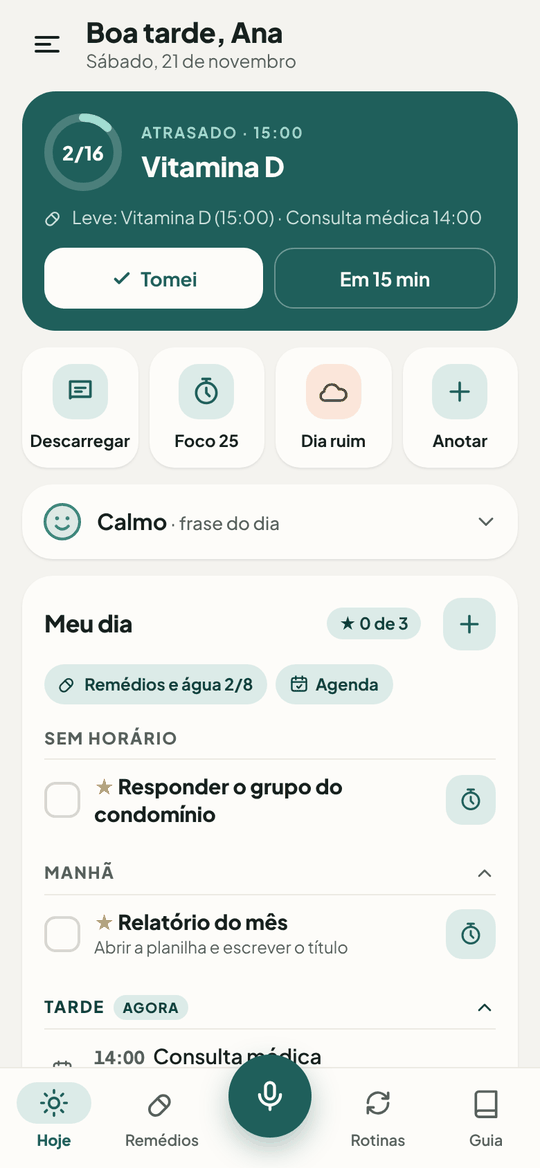
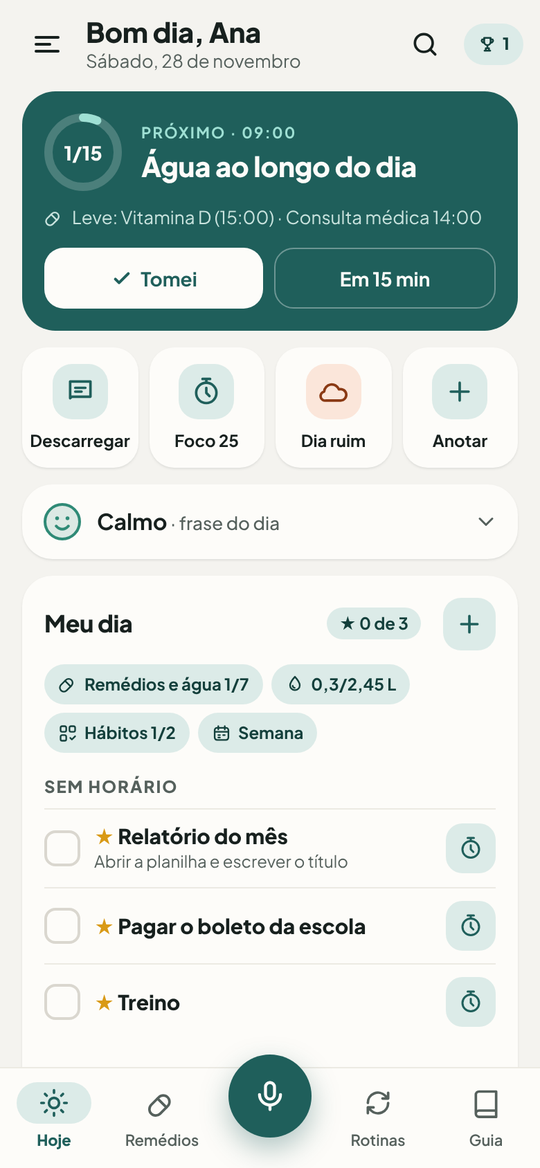
README: fotos novas (Hoje, semana) e telas de hábitos, água e volume de alarme
Claude-Session: https://claude.ai/code/session_01Rs3GPLpWNhTN5yiAapCfrm

diff --git a/README.md b/README.md
@@ -21,7 +21,7 @@ Sem conta e sem servidor: os dados ficam no celular, e o backup vai para o Googl
 
 <table>
   <tr>
-    <td align="center" width="33%"><img src="docs/telas/hoje.png" width="230" alt="Tela Hoje com o card Agora, ações rápidas, humor e o Meu dia por Manhã, Tarde e Noite"><br><sub><b>Hoje</b>: o dia num olhar</sub></td>
+    <td align="center" width="33%"><img src="docs/telas/hoje.png" width="230" alt="Tela Hoje com o card Agora, ações rápidas, humor e o Meu dia com os atalhos de remédios, água, hábitos e semana"><br><sub><b>Hoje</b>: o dia num olhar</sub></td>
     <td align="center" width="33%"><img src="docs/telas/captura.png" width="230" alt="Captura mágica lendo dentista sexta 15h no centro"><br><sub><b>Captura mágica</b>: escreve do seu jeito</sub></td>
     <td align="center" width="33%"><img src="docs/telas/matriz.png" width="230" alt="Matriz de prioridades com filtro por categoria"><br><sub><b>Prioridades</b>: matriz com categorias</sub></td>
   </tr>
@@ -31,7 +31,7 @@ Sem conta e sem servidor: os dados ficam no celular, e o backup vai para o Googl
     <td align="center"><img src="docs/telas/foco.png" width="230" alt="Bloco de foco escuro com timer de 25 minutos e o passo atual"><br><sub><b>Foco</b> de 25 min no passo atual</sub></td>
   </tr>
   <tr>
-    <td align="center"><img src="docs/telas/semana.png" width="230" alt="Resumo da semana com tarefas concluídas, 3 do dia, remédios e humor"><br><sub><b>Resumo da semana</b></sub></td>
+    <td align="center"><img src="docs/telas/semana.png" width="230" alt="Resumo da semana com tarefas concluídas, 3 do dia, remédios, humor, foco e hábitos"><br><sub><b>Resumo da semana</b></sub></td>
     <td align="center"><img src="docs/telas/remedios.png" width="230" alt="Remédios e água com o próximo horário e os botões Tomei e Lembrar em 15 min"><br><sub><b>Remédios e água</b> com aviso</sub></td>
     <td align="center"><img src="docs/telas/hoje-escuro.png" width="230" alt="Tela Hoje no tema escuro"><br><sub><b>Tema escuro</b> ou automático</sub></td>
   </tr>
@@ -39,6 +39,11 @@ Sem conta e sem servidor: os dados ficam no celular, e o backup vai para o Googl
     <td align="center"><img src="docs/telas/rotina-guiada.png" width="230" alt="Rotina guiada mostrando o passo 3 de 7 com um disco de tempo e os próximos passos"><br><sub><b>Rotina guiada</b>, um passo por vez</sub></td>
     <td align="center"><img src="docs/telas/foco-disco.png" width="230" alt="Bloco de foco com disco de tempo, ciclo de 4 blocos e foco acompanhado"><br><sub><b>Tempo visual</b> e ciclo de 4 blocos</sub></td>
     <td align="center"><img src="docs/telas/pontos.png" width="230" alt="Pontos e recompensas com nível 3, dias seguidos, moedas e recompensas"><br><sub><b>Pontos e recompensas</b></sub></td>
+  </tr>
+  <tr>
+    <td align="center"><img src="docs/telas/habitos.png" width="230" alt="Hábitos: Academia 5x por semana com 2 semanas seguidas e Alongar todo dia com o calendário do mês"><br><sub><b>Hábitos</b> com meta e mapa do mês</sub></td>
+    <td align="center"><img src="docs/telas/agua.png" width="230" alt="Água de hoje com a meta pelo peso, plano automático de copos e o aviso do treino"><br><sub><b>Meta de água</b> automática</sub></td>
+    <td align="center"><img src="docs/telas/silencioso.png" width="230" alt="Tocar no silencioso com o volume de alarme e o horário de dormir"><br><sub><b>Volume de alarme</b> e horário de dormir</sub></td>
   </tr>
 </table>
 
